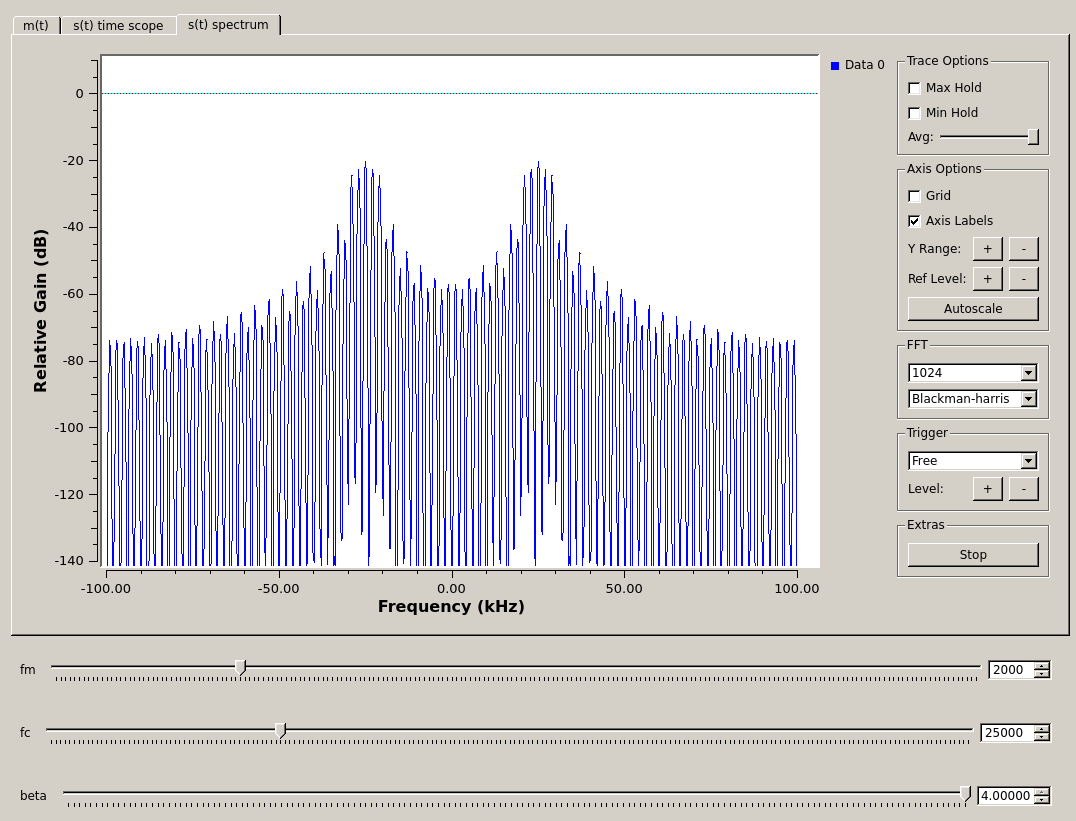
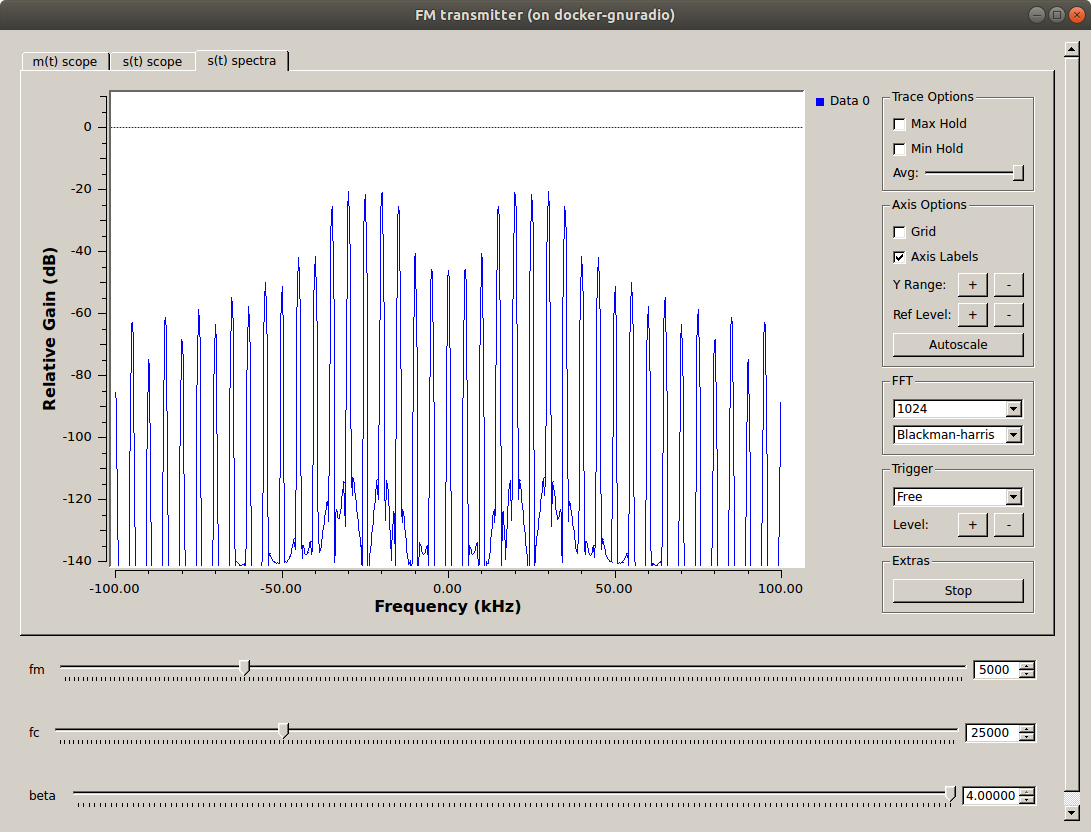
Made Lab 3 FM tx complex

Changed region(s): [[0.0, 0.0, 1.0, 1.0]]

diff --git a/_lab3/FM-transmitter-simulation.md b/_lab3/FM-transmitter-simulation.md
@@ -36,27 +36,17 @@ You are going to build flowgraphs to transmit FM signals that are simulation-onl
 
     $$m(t) = A_{m}cos\left( 2\pi f_m t\right) $$
 
-  the FM wave can be written as any of:
+  the FM wave can be written as:
   
     $$
     \begin{align*}
         s(t) &= A_{c}cos\left( 2\pi f_c t + \beta sin \left(2\pi f_m t \right) \right) \\
 
-        &= I(t)cos \left( 2\pi f_c t \right) - Q(t)sin \left( 2\pi f_c t \right) \\
+        &= Re \{ A_c e^{j(2\pi f_c t + \beta sin(2\pi f_m t))} \} \\
 
-        &= a(t)cos \left( 2\pi f_c t + \phi (t) \right)
+        &= Re \{ A_c e^{\beta sin(2\pi f_m t))} e^{j(2\pi f_c t} \} \\
     \end{align*}
     $$
-
-  where:
-
-    $$ a(t) = A_c $$
-
-    $$ \phi (t) = \beta sin \left( 2\pi f_m t \right) $$
-
-    $$ I(t) = A_c cos \left( 2\pi f_m t \right) $$
-
-    $$ Q(t) = A_c sin \left( 2\pi f_m t \right) $$
 
 <!-- #TODO what is beta -->
 
@@ -77,27 +67,28 @@ You'll start by transmitting a sinusoidal message. The equations for this are sh
   - For the carrier frequency, range from 0-100 kHz with a default value of 25 kHz.
   - For the beta value, fange from 0-4 with a default value of 4, and a step size of 0.025.
 
-- Construct a flowgraph representation of $$ \phi (t) $$ using a *Signal Source* block and a *Multiply Const* block.
-  - Change the *Output Type* to *Float*.
+- Begin by using a *Signal Source* block and a *Multiply Const* block to create the $$ \beta sin( 2\pi f_m t) $$ term.
+  - In the signal source, change the *Output Type* to *Float*.
   - Use the variables from the *QT GUI Range* widgets for $$ \beta $$ and $$ f_m $$.
   - The flowgraph should now look like the following figure.
 
-    ![fmtx_phi-of-t-grc.png](./figures/fmtx_phi-of-t-grc.png)<br>
-    __*Graphical representation of $$ \phi (t) $$*__
+- This flowgraph will not be used to transmit to any hardware, so a *Throttle* block is needed. Add a *Throttle* after the *Multiply Const* block.
 
-  - **Can you read this flowgraph as equivalent to the equation for $$ \phi (t) $$ ?**
+- In order to turn this signal into a complex exponential, we must take $$ e^{jX} $$ where $$ X $$ is the signal at this point.
+  - Use the [Phase Mod](https://wiki.gnuradio.org/index.php/Phase_Mod) block.
+  - Read the documentation on the block to understand what it is doing.
+  - Notice that we could input the $$ \beta $$ value as the sensitivity instead of using the *Multiply Const* block. If you choose to keep the *Multiply Const* block, set the *Sensitivity* parameter to 1.
 
-- Add a *Throttle* block after the $$ \beta $$ multiplication.
-- In order to take the sine and cosine of $$ \phi (t) $$, split the output of the *Throttle* block into two *Transcendental* blocks.
-  - One of the *Transcendental* blocks should have `cos` set as the function, and the other should have *sin* set as the function.
-  - These two streams represent $$ I(t) $$ and $$ Q(t) $$ from the equations in the [theory section](#theory) above. Notice that $$ A_c $$ is not used and so is equal to 1.
+- The flow graph should now look like the following figure.
 
-- Following the equations in the [theory section](#theory), $$ I(t) $$ and $$ Q(t) $$ are multiplied by $$ cos(2\pi f_c t) $$ and $$ -sin(2\pi f_c t) $$ of the carrier frequency respectively.
-  - Add two *Signal Source* blocks and two *Multiply* blocks.
-  - Ensure that $$ cos(2\pi f_c t) $$ is multiplied with $$ I(t) $$ while $$ -sin(2\pi f_c t) $$ is multiplied with $$ Q(t) $$.
-    - To get the negative value in front of the sine, choose an amplitude of -1 in the appropriate *Signal Source* block.
+    ![fmtx_s-plus-of-t-grc.png](./figures/fmtx_s-plus-of-t-grc.png)<br>
+    __*Graphical representation of $$ e^{j\beta sin(2\pi f_m t)} $$*__
 
-- Use an *Add* block to combine the two streams and obtain $$ s(t)$$.
+- Now construct the second exponential, $$ e^{j2\pi f_c t} $$ and multiply them together to create $$ s^{+}(t) $$.
+  - Use a *Signal Source* block in conjunction with a *Multiply* block and incorporate the QT GUI Range variable for $$ f_c $$.
+
+- Use a *Complex To Real* block to obtain $$ s(t) $$.
+  - Notice that $$ A_c $$ is not used and so is equal to 1.
 
 - Visualize the output of the flowgraph using a:
   - *QT GUI Time Sink* at $$ m(t) $$
@@ -130,14 +121,7 @@ What does $$ \beta $$ control?
 
 ---
 
-- Add a *File Sink* block as well to capture $$ s(t) $$ but leave it disabled for now.
-
-- Your flowgraph should look similar to the following.
-
-  ![fmtx_sine-modulator-grc.png](./figures/fmtx_sine-modulator-grc.png)<br>
-  __*Graphical representation of $$ s(t) $$*__
-
-- Enable the *File Sink* block and save a file called `FM_TX_2kHz_sine.dat`. You will need to execute the flowgraph for a few seconds to build the file.
+- Add a *File Sink* block to capture $$ s(t) $$ and save a file called `FM_TX_2kHz_sine.dat`. You will need to execute the flowgraph for a few seconds to build the file.
 
 ## Building an FM transmitter for an FSK message
 
@@ -147,9 +131,9 @@ The integral of a square waveform is a triangular waveform with the same frequen
 
 - Change the *Signal Source* block to output a triangular waveform of frequency $$ f_m $$.
 
-- With the *File Sink* block disabled, execute the flowgraph and observe the various plots. Adjust the sliders to see how it impacts the transmitted signal.
+- With the *File Sink* block disabled, execute the flowgraph and observe the various plots. Adjust the sliders so that $$ f_m $$ is 5 kHz see how it impacts the transmitted signal.
 
-- The following figures show $$ m(t)$$  and $$ s(t) $$ with default parameters.
+- The following figures show $$ m(t)$$  and $$ s(t) $$ with a message frequency of 5 kHz.
 
   ![fmtx_m-of-t-square-scope.png](./figures/fmtx_m-of-t-square-scope.png)<br>
   __*$$ m(t) $$ with default values in time domain*__
@@ -159,6 +143,8 @@ The integral of a square waveform is a triangular waveform with the same frequen
 
   ![fmtx_s-of-t-square-fft.png](./figures/fmtx_s-of-t-square-fft.png)<br>
   __*$$ s(t) $$ with default values in frequency domain*__
+
+-Set the sliders back to default values.
 
 - Enable the *File Sink* block and save a file called `FM_TX_2kHz_square.dat`. You will need to execute the flowgraph for a few seconds to build the file.
 
